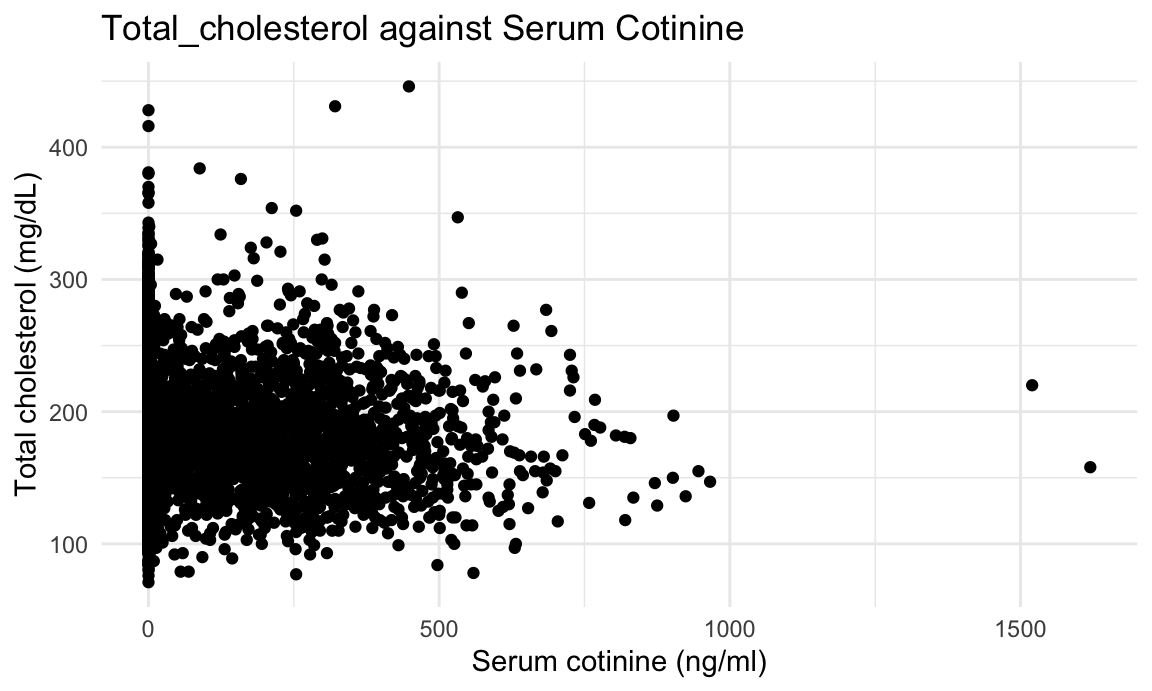
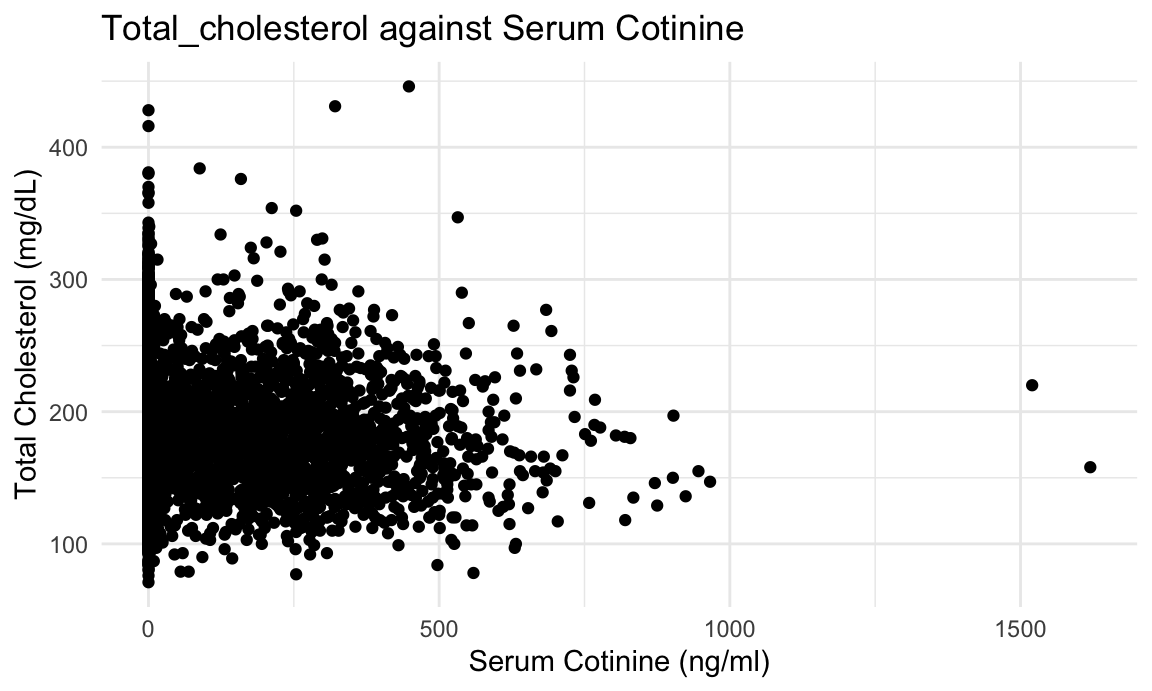
1

Changed region(s): [[0.0, 0.2431, 0.0312, 0.7294], [0.4062, 0.9421, 0.6875, 1.0]]

diff --git a/model.html b/model.html
@@ -1010,19 +1010,19 @@ level = 0.05).</p>
 <h2><em>Check the dataset</em></h2>
 <pre class="r"><code>model_df |&gt; 
   ggplot(aes(x = cotinine, y = total_cholesterol)) + geom_point() +
-  labs(title = &quot;Total_cholesterol against Serum Cotinine&quot;, x = &quot;Serum cotinine (ng/ml)&quot;, y = &quot;Total cholesterol (mg/dL)&quot;)</code></pre>
+  labs(title = &quot;Total_cholesterol against Serum Cotinine&quot;, x = &quot;Serum Cotinine (ng/ml)&quot;, y = &quot;Total Cholesterol (mg/dL)&quot;)</code></pre>
 <p><img src="model_files/figure-html/unnamed-chunk-6-1.png" width="90%" /></p>
 <pre class="r"><code>model_df |&gt; 
   ggplot(aes(x = alcohol_use_cat, y = total_cholesterol)) + geom_point() +
-  labs(title = &quot;Total_cholesterol against Alcohol Use&quot;, x = &quot;Alcohol use&quot;, y = &quot;Total cholesterol (mg/dL)&quot;)</code></pre>
+  labs(title = &quot;Total_cholesterol against Alcohol Use&quot;, x = &quot;Alcohol Use&quot;, y = &quot;Total Cholesterol (mg/dL)&quot;)</code></pre>
 <p><img src="model_files/figure-html/unnamed-chunk-6-2.png" width="90%" /></p>
 <pre class="r"><code>model_df |&gt; 
   ggplot(aes(x = physical_activity, y = total_cholesterol)) + geom_point() +
-  labs(title = &quot;Total_cholesterol against Physical_activity&quot;, x = &quot;Physical activity&quot;, y = &quot;Total cholesterol (mg/dL)&quot;)</code></pre>
+  labs(title = &quot;Total_cholesterol against Physical_activity&quot;, x = &quot;Physical Activity&quot;, y = &quot;Total Cholesterol (mg/dL)&quot;)</code></pre>
 <p><img src="model_files/figure-html/unnamed-chunk-6-3.png" width="90%" /></p>
 <pre class="r"><code>model_df |&gt; 
   ggplot(aes(x = total_cholesterol)) + geom_density() +
-  labs(title = &quot;Destribution of Total_cholesterol&quot;, x = &quot;Total cholesterol (mg/dL)&quot;)</code></pre>
+  labs(title = &quot;Destribution of Total_cholesterol&quot;, x = &quot;Total Cholesterol (mg/dL)&quot;)</code></pre>
 <p><img src="model_files/figure-html/unnamed-chunk-6-4.png" width="90%" /></p>
 <ul>
 <li>Based on the scatterplot, we can find slightly negative linear
@@ -1084,7 +1084,7 @@ fit_1 |&gt;
   ggplot(aes(sample = resid)) +
   stat_qq() +
   stat_qq_line() +
-  labs(title = &quot;QQ plot&quot;, x = &quot;Quantile&quot;, y = &quot;Residual&quot;)</code></pre>
+  labs(title = &quot;QQ Plot&quot;, x = &quot;Quantile&quot;, y = &quot;Residual&quot;)</code></pre>
 <p><img src="model_files/figure-html/unnamed-chunk-7-1.png" width="90%" /></p>
 <ul>
 <li>We can see that cotinine is <strong>significantly
@@ -1303,7 +1303,7 @@ fit_2 |&gt;
   ggplot(aes(sample = resid)) +
   stat_qq() +
   stat_qq_line() +
-  labs(title = &quot;QQ plot&quot;, x = &quot;Quantile&quot;, y = &quot;Residual&quot;)</code></pre>
+  labs(title = &quot;QQ Plot&quot;, x = &quot;Quantile&quot;, y = &quot;Residual&quot;)</code></pre>
 <p><img src="model_files/figure-html/unnamed-chunk-9-1.png" width="90%" /></p>
 <ul>
 <li>We can see that physical_activity is <strong>not significantly
@@ -1532,7 +1532,7 @@ fit_3 |&gt;
   ggplot(aes(sample = resid)) +
   stat_qq() +
   stat_qq_line() +
-  labs(title = &quot;QQ plot&quot;, x = &quot;Quantile&quot;, y = &quot;Residual&quot;)</code></pre>
+  labs(title = &quot;QQ Plot&quot;, x = &quot;Quantile&quot;, y = &quot;Residual&quot;)</code></pre>
 <p><img src="model_files/figure-html/unnamed-chunk-11-1.png" width="90%" /></p>
 <ul>
 <li>We can see that alcohol_use_cat is <strong>significantly positively
@@ -1937,7 +1937,6 @@ summary(test_aic)</code></pre>
 ##   (2752 observations deleted due to missingness)
 ## Multiple R-squared:  0.04106,    Adjusted R-squared:  0.0384 
 ## F-statistic:  15.4 on 15 and 5393 DF,  p-value: &lt; 2.2e-16</code></pre>
-<pre class="r"><code># AIC result: log(total_cholesterol) ~ alcohol_use_cat + gender + race + marital_status + education_level_20 + poverty_level</code></pre>
 <ul>
 <li>Based on the output, we can find the best model optimized by
 comparing AIC value is
@@ -2011,7 +2010,6 @@ which is the same as model <code>fit_alc</code>.</li>
 ## - marital_status      2    1.8116 260.06 -16388
 ## - alcohol_use_cat     2    2.5279 260.78 -16373
 ## - gender              1    3.9513 262.20 -16342</code></pre>
-<pre class="r"><code># backward result: log(total_cholesterol) ~ alcohol_use_cat + gender + race + marital_status + education_level_20 + poverty_level</code></pre>
 <ul>
 <li>Based on the output, we can find the best model optimized by
 backward selection summary for full model with log transfermation on y
@@ -2086,7 +2084,6 @@ which is the same as model <code>fit_alc</code>.</li>
 ## - marital_status      2    1.8116 260.06 -16388
 ## - alcohol_use_cat     2    2.5279 260.78 -16373
 ## - gender              1    3.9513 262.20 -16342</code></pre>
-<pre class="r"><code># stepwise result: log(total_cholesterol) ~ alcohol_use_cat + gender + race + marital_status + education_level_20 + poverty_level</code></pre>
 <ul>
 <li>Based on the output, we can find the best model optimized by
 stepwise selection summary for full model with log transfermation on y
@@ -2350,7 +2347,7 @@ race, marital status, education level, and poverty level, based on this
 sample. This association is significant at 0.05 level of
 significance.</li>
 </ul>
-<p>Then, We save this model as a RDS file for the next R shiny part:
+<p>Then, We save this model as a RDS file for the next part:
 <strong>Predict Your Risk</strong>.</p>
 <pre class="r"><code>save_path = &quot;fit_alc.rds&quot;
 saveRDS(fit_alc, save_path)</code></pre>
